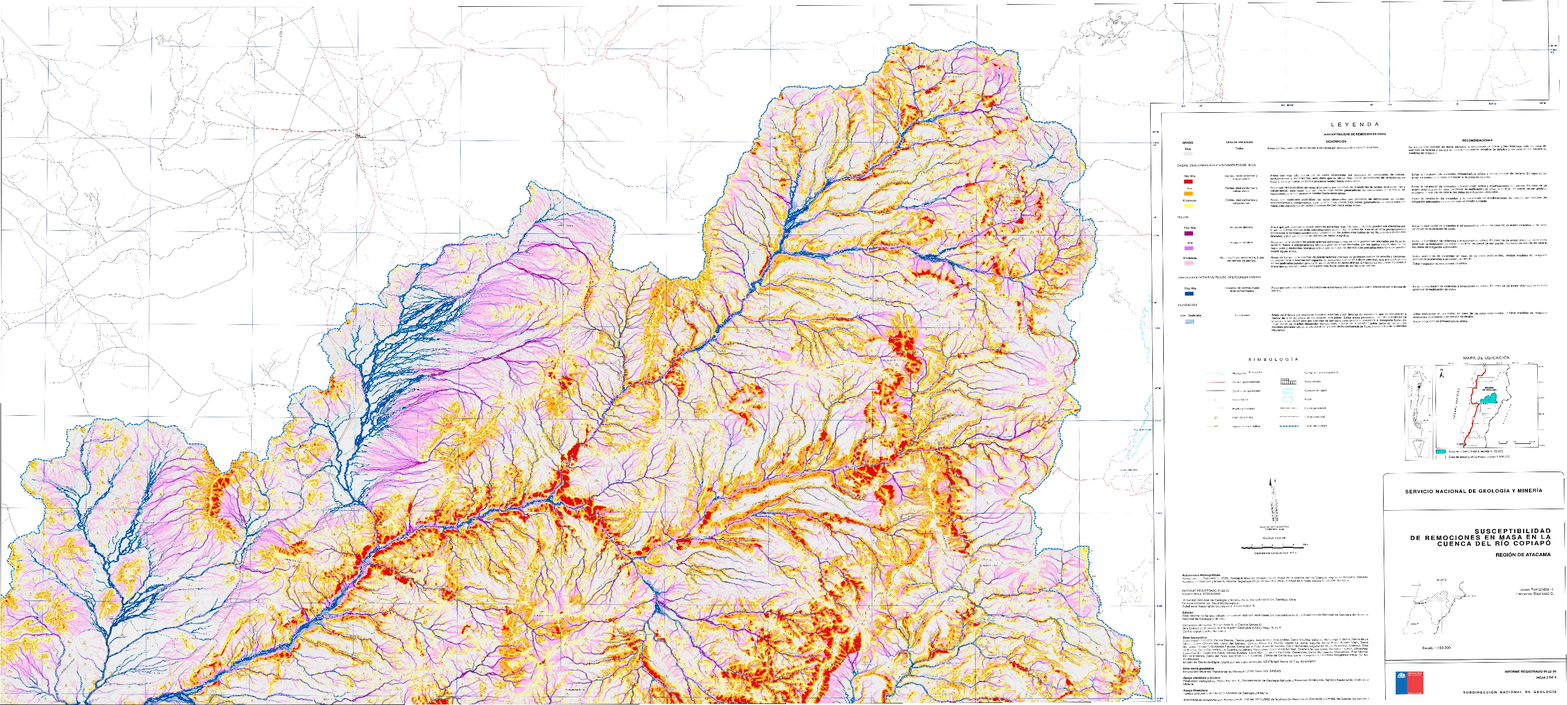
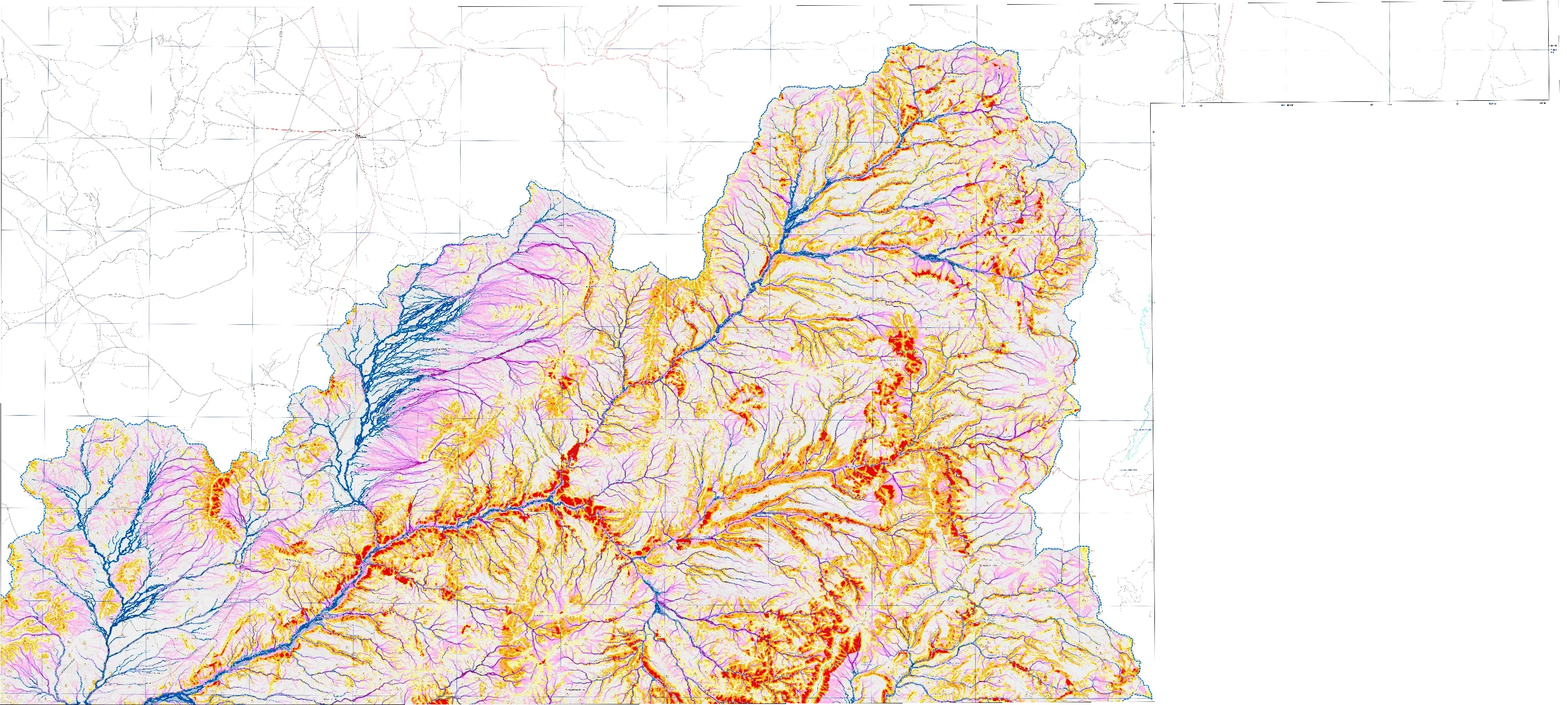
Peligros Copiapó: recuadros de leyenda y rótulo transparentes en hojas 2-4 (tapaban terreno); la leyenda sigue en su botón

diff --git a/index.html b/index.html
@@ -247,7 +247,7 @@
 <script>
 const CATS = [["geologia","🗺 Geología Básica"],["peligros","⚠ Peligros Geológicos"],["aplicada","🧪 Geología Aplicada"],
   ["historico","📜 Histórico"],["academico","🎓 Académicos"],["hillshade","🏔 Hillshade"]];
-const ASSET_V = '?v=20261012e';   // cache-bust de overlays/leyendas (subir al cambiar assets)
+const ASSET_V = '?v=20261012f';   // cache-bust de overlays/leyendas (subir al cambiar assets)
 const map = L.map('map',{center:[-33.9,-71.2],zoom:5});
 const bases = {
   "Satelital": L.tileLayer('https://server.arcgisonline.com/ArcGIS/rest/services/World_Imagery/MapServer/tile/{z}/{y}/{x}',{maxZoom:19,attribution:'Esri'}),
